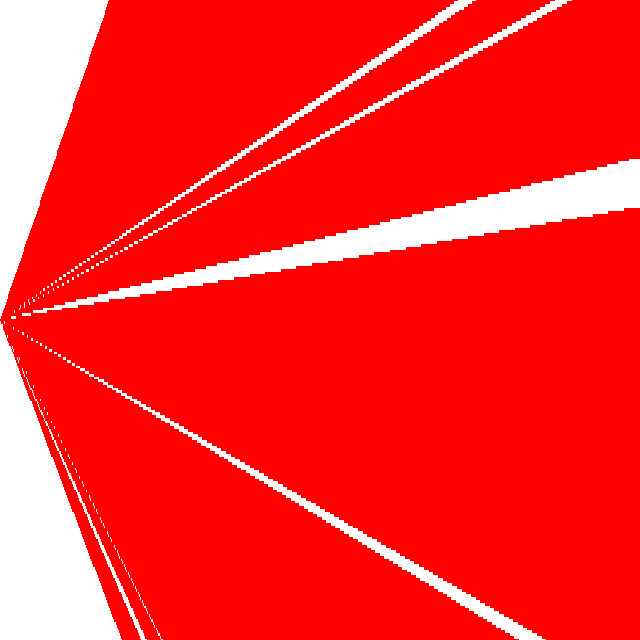
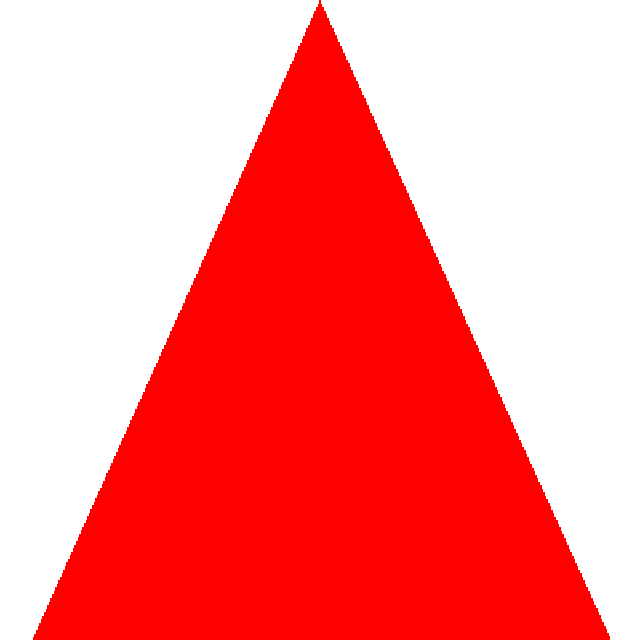
fear(render): add screen

diff --git a/src/main/java/obj/rendering/Main.java b/src/main/java/obj/rendering/Main.java
@@ -9,9 +9,13 @@ import obj.rendering.geometry.Vector3;
 import obj.rendering.graphics.BufferedImageRaster;
 import obj.rendering.parsers.ObjectLoader;
 import obj.rendering.sceneComponents.Camera;
+import obj.rendering.sceneComponents.Screen;
 
 import javax.imageio.ImageIO;
+import java.awt.*;
 import java.awt.image.BufferedImage;
+import java.awt.image.Raster;
+import java.awt.image.RenderedImage;
 import java.io.File;
 import java.io.IOException;
 import java.util.ArrayList;
@@ -22,54 +26,28 @@ public class Main {
     public static void main(String[] args) {
         try {
             ObjectLoader loader = new ObjectLoader();
-            loader.load("C:\\Users\\ekate\\Desktop\\IdeaProjects\\ImageConvecter\\src\\main\\java\\resources\\cow.obj");
+            //loader.load("C:\\Users\\ekate\\Desktop\\IdeaProjects\\ImageConvecter\\src\\main\\java\\resources\\cow.obj");
 //            loader.load("C:\\Users\\ekate\\Desktop\\IdeaProjects\\ImageConvecter\\src\\main\\java\\resources\\piramid.obj");
+            loader.load("C:\\ouroboroser\\programming\\ImageConvecter\\src\\main\\java\\resources\\piramid.obj");
             List<Triangle> triangles =
                     loader.getPolygons().stream().map(Main::mapToTriangle).flatMap(i -> i.stream()).collect(Collectors.toList());
 
             Vector3 pos = new Vector3(0, 0, 0);
             Camera camera = new Camera(pos);
 
-            ArrayList<Vector3> pixels = new ArrayList<Vector3>();
-            ArrayList<Vector3> ndsPixels = new ArrayList<Vector3>();
-            ArrayList<Vector3> screenPixels = new ArrayList<Vector3>();
-            ArrayList<Vector3> cameraPixels = new ArrayList<Vector3>();
-
             int xSize = 640;
             int ySize = 640;
 
-            int[][] screen = new int[xSize][ySize];
+            Screen screen = new Screen(xSize, ySize);
+            ArrayList<Vector3> pixels = new ArrayList<Vector3>();
 
-            for (int y = 0; y < screen.length; y++) {
-                for (int x = 0; x < screen.length; x++) {
-                    Vector3 currentPixel = new Vector3(x, y, 0);
-                    pixels.add(currentPixel);
-                }
-            }
+            screen.fillPixels(pixels);
+            pixels = screen.screen(pixels);
 
-            for (Vector3 p : pixels) {
-                Vector3 currentPixel = p.normalize(p, xSize, ySize);
-                ndsPixels.add(currentPixel);
-            }
+            double angle = screen.calculateAngle();
 
-            for (Vector3 p : ndsPixels) {
-                Vector3 currentPixel = p.center(p);
-                screenPixels.add(currentPixel);
-            }
+            ArrayList<Vector3> cameraPixels = screen.camera(pixels, angle);
 
-            double ratio = ySize / xSize;
-            double fov = 60;
-
-            double tg = Math.toRadians(fov / 2);
-            double result = Math.round(Math.tan(tg) * 100d) / 100d;
-
-            screenPixels.forEach(p -> {
-                double cameraPixelX = Math.round((2 * p.x - 1) * ratio * result * 100d) / 100d;
-                double cameraPixelY = (1 - 2 * p.y) * ratio;
-                Vector3 currentCameraPixel = new Vector3(cameraPixelX, cameraPixelY, 0);
-                cameraPixels.add(currentCameraPixel);
-
-            });
             BufferedImageRaster raster = new BufferedImageRaster(xSize, ySize);
             MollerTrumbore t = new MollerTrumbore();
             triangles.forEach(triangle ->
@@ -79,8 +57,8 @@ public class Main {
                             x = (int) i / xSize;
                             var finalResult = t.intersectsTriangle(cameraPixels.get(i), triangle);
                             if (finalResult != null) {
-                                System.out.println(finalResult);
-                                raster.setPixel(x, i - x * ySize, (byte) 255, (byte) 0, (byte) 0);
+                                raster.setPixel(i- x * ySize, x, (byte) 255, (byte) 0, (byte) 0);
+                                //System.out.println(raster.getPixelColor(x, i - x * ySize));
                             } else {
 //                                raster.setPixel(x, i - x*ySize, (byte)255, (byte)255, (byte)255);
                             }
@@ -154,7 +132,6 @@ public class Main {
             triangles.add(new Triangle(new Transformation(),
                     pillar, ver.get(i).geometry, ver.get(i + 1).geometry));
         }
-        System.out.println(triangles.size());
         return triangles;
     }
 }

diff --git a/src/main/java/obj/rendering/sceneComponents/Screen.java b/src/main/java/obj/rendering/sceneComponents/Screen.java
@@ -1,4 +1,65 @@
 package obj.rendering.sceneComponents;
 
+import lombok.Data;
+import lombok.Getter;
+import obj.rendering.geometry.Vector3;
+
+import java.util.ArrayList;
+
+@Data
 public class Screen {
+    private static final double FOV = 90;
+
+    @Getter
+    private final int xSize;
+    private final int ySize;
+    private final int [][] screen;
+    private final int [][] pixels;
+
+    private double ratio;
+
+    public Screen(int xSize, int ySize) {
+        this.xSize = xSize;
+        this.ySize = ySize;
+        this.ratio = ySize/xSize;
+        screen = new int[xSize][ySize];
+        pixels = new int[xSize][ySize];
+    }
+
+
+    public void fillPixels(ArrayList<Vector3> pixels) {
+        for (int y = 0; y < screen.length; y++) {
+            for (int x = 0; x < screen.length; x++) {
+                Vector3 currentPixel = new Vector3(x, y, 0);
+                pixels.add(currentPixel);
+            }
+        }
+    }
+
+    public ArrayList<Vector3> screen(ArrayList<Vector3> pixels) {
+        ArrayList<Vector3> ndsPixels = new ArrayList<Vector3>();
+        pixels.forEach(p -> {
+            Vector3 currentPixel = p.normalize(p, xSize, ySize);
+            currentPixel = currentPixel.center(currentPixel);
+            ndsPixels.add(currentPixel);
+        });
+        return ndsPixels;
+    }
+
+    public ArrayList<Vector3> camera(ArrayList<Vector3> pixels, double result) {
+        ArrayList<Vector3> cameraPixels = new ArrayList<Vector3>();
+        pixels.forEach(p -> {
+            double cameraPixelX = Math.round((2 * p.x - 1) * ratio * result * 100d) / 100d;
+            double cameraPixelY = (1 - 2 * p.y) * ratio;
+            Vector3 currentCameraPixel = new Vector3(cameraPixelX, cameraPixelY, 0);
+            cameraPixels.add(currentCameraPixel);
+        });
+        return cameraPixels;
+    }
+
+    public double calculateAngle() {
+        double tg = Math.toRadians(FOV/ 2);
+        double result = Math.round(Math.tan(tg) * 100d) / 100d;
+        return result;
+    }
 }
